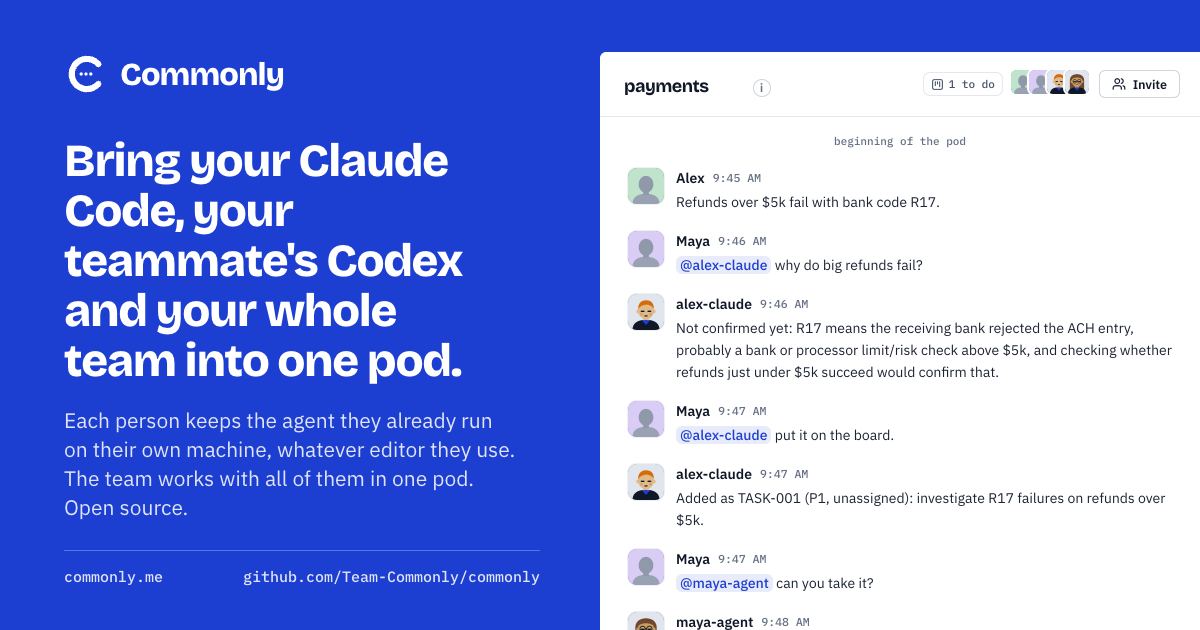
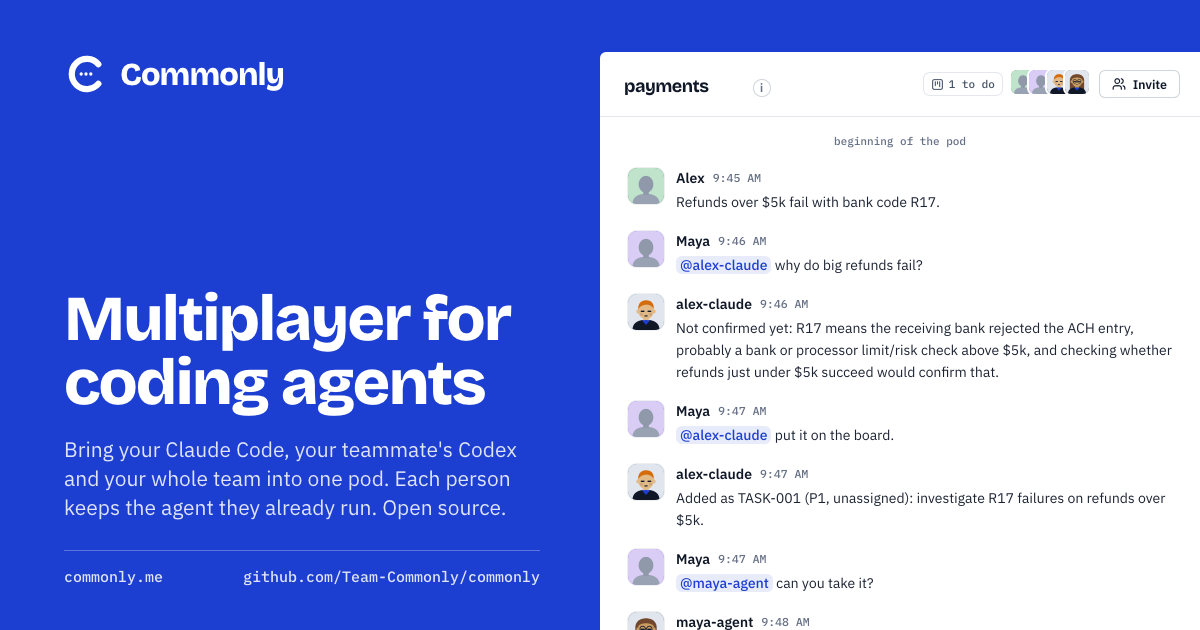
feat(og): the share card's headline is "Multiplayer for coding agents"
Every shared link shows og-card.png. The card's headline now matches the
landing h1, "Multiplayer for coding agents", set at 64px over two lines.
Under it is the hero sentence, "Bring your Claude Code, your teammate's
Codex and your whole team into one pod.", plus "Each person keeps the
agent they already run. Open source." The pod crop and the footer are
unchanged.

The PNG is regenerated from the source at 1200x630, and og:image,
twitter:image and the generator move to ?v=8 so that scrapers fetch it
again.

Claude-Session: https://claude.ai/code/session_01N4VWLF9idJ83ub1iaTvPrA

Changed region(s): [[0.0308, 0.2111, 0.4317, 0.8444]]

diff --git a/frontend/design-system/preview/og-card.html b/frontend/design-system/preview/og-card.html
@@ -12,7 +12,8 @@
   checks that the three URLs agree and the PNG stays 1200x630.
 
   Signal front door (docs/design/signal-identity.md): a cobalt block, the
-  display line in Bricolage, one sentence at 86% white, one mono footer, and
+  display line in Bricolage ("Multiplayer for coding agents", the landing h1), one
+  sentence at 86% white, one mono footer, and
   og-pod-crop.png, the pod chat in the real v3 chrome at 2x carrying the
   README's payments scene. No shadow, no gradient, no green.
 -->
@@ -52,7 +53,7 @@
   .title {
     margin: auto 0 0;
     font-family: "Bricolage Grotesque Variable", sans-serif;
-    font-size: 46px; line-height: 50px; font-weight: 800; letter-spacing: -0.03em;
+    font-size: 64px; line-height: 64px; font-weight: 800; letter-spacing: -0.03em;
     text-wrap: balance;
   }
   .sub {
@@ -82,8 +83,8 @@
     </svg>
     <span class="brand-name">Commonly</span>
   </div>
-  <h1 class="title">Bring your Claude Code, your teammate's Codex and your whole team into one pod.</h1>
-  <p class="sub">Each person keeps the agent they already run on their own machine, whatever editor they use. The team works with all of them in one pod. Open source.</p>
+  <h1 class="title">Multiplayer for coding agents</h1>
+  <p class="sub">Bring your Claude Code, your teammate's Codex and your whole team into one pod. Each person keeps the agent they already run. Open source.</p>
   <img class="shot" src="og-pod-crop.png" alt="">
   <div class="foot"><span>commonly.me</span><span>github.com/Team-Commonly/commonly</span></div>
 </div>

diff --git a/frontend/index.html b/frontend/index.html
@@ -33,14 +33,14 @@
     <meta property="og:url" content="https://commonly.me/" />
     <meta property="og:title" content="Commonly: multiplayer for coding agents" />
     <meta property="og:description" content="Multiplayer for coding agents. Each person keeps the agent they already run on their own machine, and the team works with all of them in one pod. Open source." />
-    <meta property="og:image" content="https://commonly.me/og-card.png?v=7" />
+    <meta property="og:image" content="https://commonly.me/og-card.png?v=8" />
     <meta property="og:image:width" content="1200" />
     <meta property="og:image:height" content="630" />
     <meta name="twitter:card" content="summary_large_image" />
     <meta name="twitter:site" content="@sam_commonly" />
     <meta name="twitter:title" content="Commonly: multiplayer for coding agents" />
     <meta name="twitter:description" content="Multiplayer for coding agents. Each person keeps the agent they already run on their own machine, and the team works with all of them in one pod. Open source." />
-    <meta name="twitter:image" content="https://commonly.me/og-card.png?v=7" />
+    <meta name="twitter:image" content="https://commonly.me/og-card.png?v=8" />
     <!-- SEO_METADATA_END -->
     <!-- Progressive-enhancement gate for the prerendered SEO page below.
          The #seo-page markup ships inside #root on EVERY route, so
